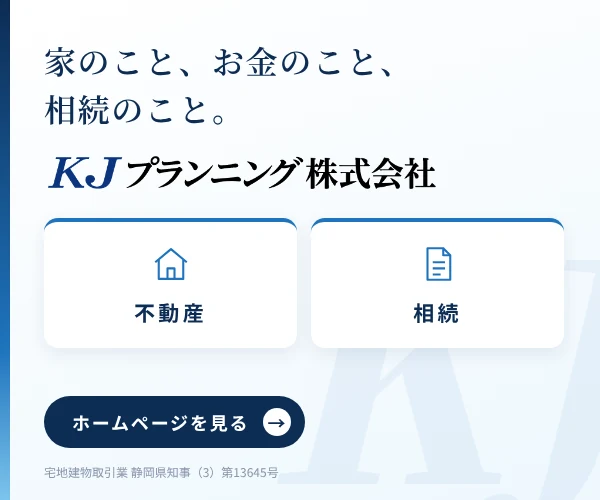
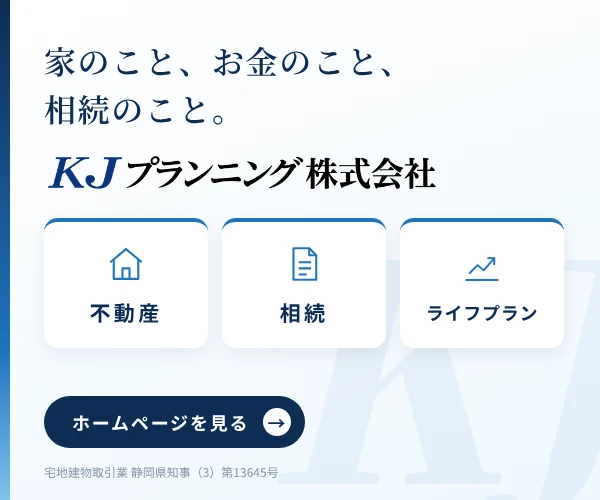
自社の広告：「不動産・相続・ライフプラン」の3つの画像に
Claude-Session: https://claude.ai/code/session_01MaEeNt3yU2eeN8gzjHVedL

diff --git a/src/js/15-ads.js b/src/js/15-ads.js
@@ -16,7 +16,7 @@ function houseAd(where){
   const h=SITE_CFG.houseAd;if(!h||!h['出す']||!h['リンク'])return '';
   const B=window.BASE||'',suf=h['保険']?'-hoken':'',L=String(h['リンク']);
   const url=L+(L.includes('?')?'&':'?')+'utm_source=sainomado&utm_medium=banner&utm_campaign=kj_banner&utm_content='+encodeURIComponent(where);
-  return `<aside class="house-ad"><span class="pr-label">広告</span><a href="${esc(url)}" target="_blank" rel="noopener sponsored" data-house="${esc(where)}"><picture><source media="(max-width:600px)" srcset="${B}assets/ads/kj-rect${suf}.webp" width="600" height="500"><img src="${B}assets/ads/kj-wide${suf}.webp" width="1200" height="400" alt="${esc(h['名前']||'')}　住まいと資産のご相談（ホームページへ）" loading="lazy"></picture></a></aside>`;
+  return `<aside class="house-ad"><span class="pr-label">広告</span><a href="${esc(url)}" target="_blank" rel="noopener sponsored" data-house="${esc(where)}"><picture><source media="(max-width:600px)" srcset="${B}assets/ads/kj-rect${suf}.webp" width="600" height="500"><img src="${B}assets/ads/kj-wide${suf}.webp" width="1200" height="400" alt="${esc(h['名前']||'')}　不動産・相続・ライフプランのご相談（ホームページへ）" loading="lazy"></picture></a></aside>`;
 }
 const houseOn=(k,v)=>{const h=SITE_CFG.houseAd;return !!(h&&h['出す']&&[].concat(h[k]||[]).includes(v))};
 document.addEventListener('click',e=>{const a=e.target.closest('[data-house]');if(a)track('kj_banner_click',{place:a.dataset.house})});
